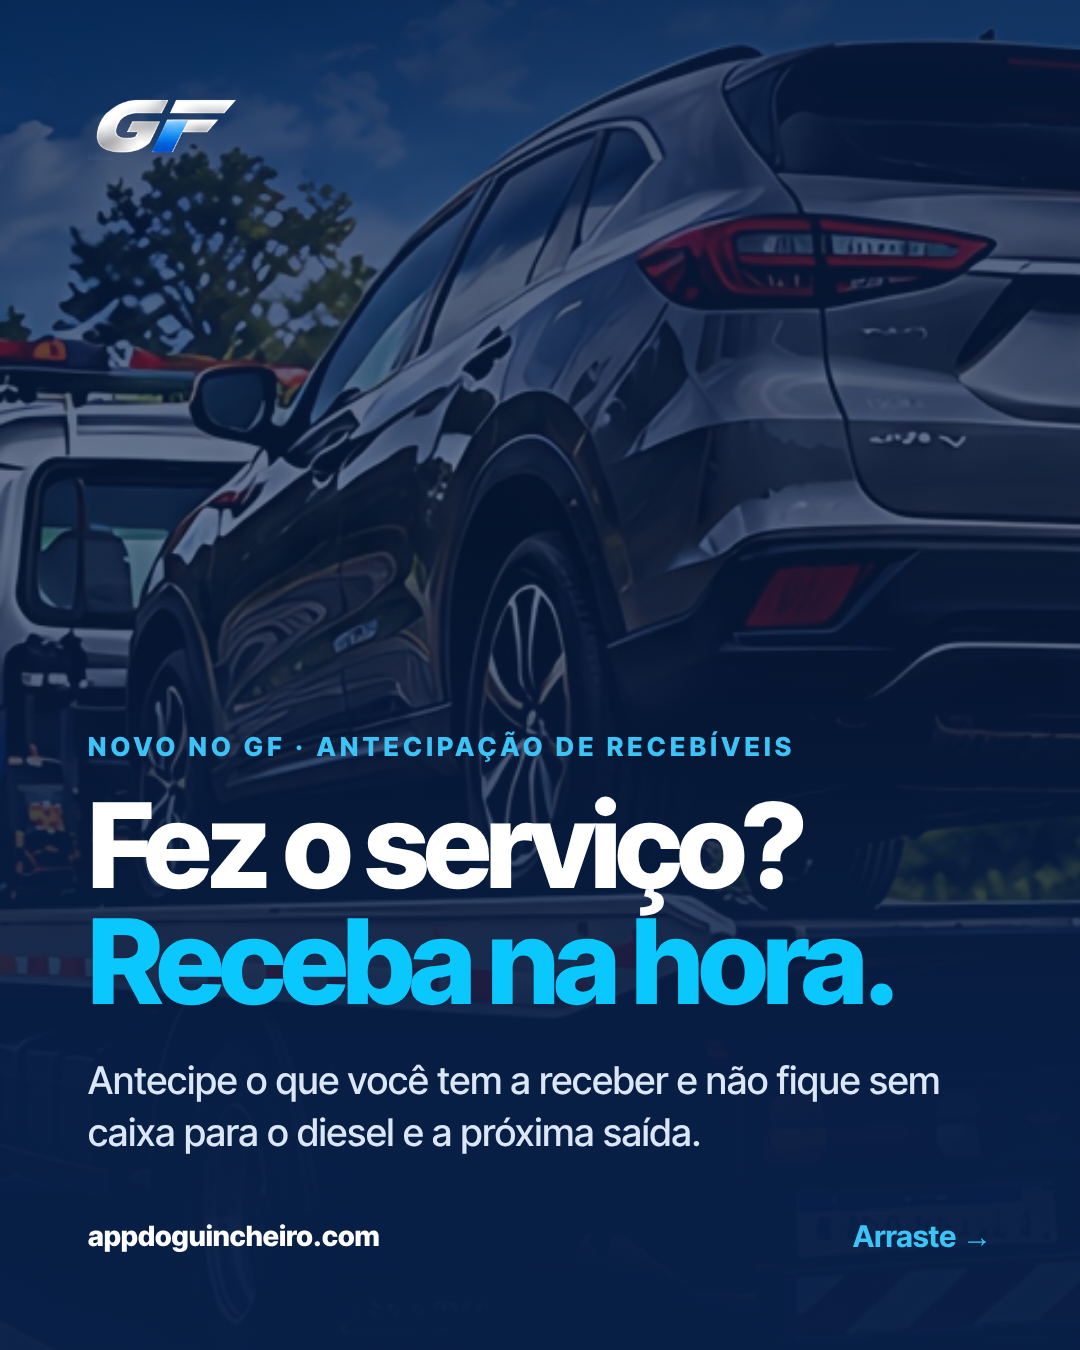
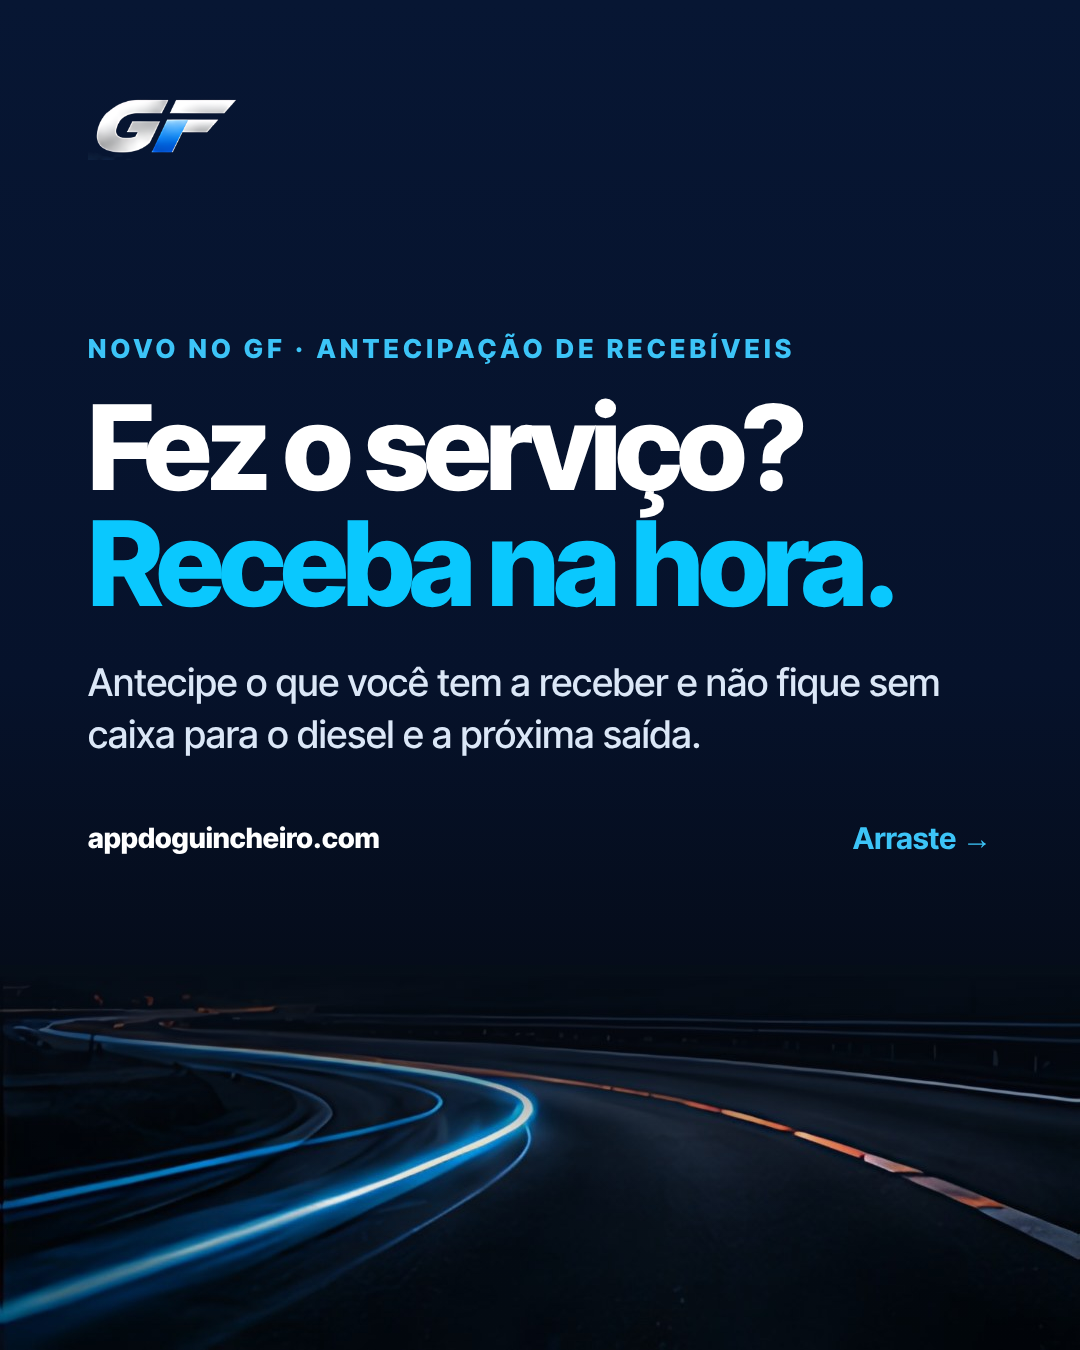
GF: nova imagem do topo (rede GF e guinchos à noite) e capas dos carrosséis com a estrada iluminada
Remove a foto antiga. O exemplo de rota sai do topo e vai para 'Para profissionais'.

Claude-Session: https://claude.ai/code/session_019ynR5H9rs9PHn6Xni4LVYt

diff --git a/guincho-facil/public/index.html b/guincho-facil/public/index.html
@@ -57,10 +57,11 @@ header.top img{height:34px;display:block}
 .cta-s:hover{border-color:var(--gf-accent)}
 @media (min-width:980px){.menu{display:flex}}
 /* hero */
-.hero{position:relative;overflow:hidden;min-height:min(100svh,860px);display:flex;align-items:center;
-  background:var(--gf-surface-deep) url(/assets/hero-guincho.jpg) 70% 60%/cover no-repeat}
+.hero{position:relative;overflow:hidden;min-height:min(100svh,820px);display:flex;align-items:center;
+  background:#071633 url(/assets/hero-rede.jpg) right center/auto 100% no-repeat}
 .hero::before{content:"";position:absolute;inset:0;background:
-  linear-gradient(180deg,rgba(8,31,71,.92) 0%,rgba(8,31,71,.55) 38%,rgba(8,31,71,.75) 70%,#081f47 100%)}
+  linear-gradient(90deg,#071633 0%,#071633 38%,rgba(7,22,51,.55) 55%,rgba(7,22,51,0) 72%),
+  linear-gradient(180deg,rgba(7,22,51,.7) 0%,rgba(7,22,51,0) 22%,rgba(7,22,51,0) 82%,#081f47 100%)}
 .hero .wrap{position:relative;z-index:1;width:100%;padding-top:108px;padding-bottom:56px;display:grid;gap:28px}
 .eyebrow{font-size:12px;letter-spacing:.28em;color:var(--gf-accent);font-weight:700;text-transform:uppercase;display:inline-flex;align-items:center;gap:10px}
 .eyebrow::before{content:"";width:22px;height:2px;background:currentColor}
@@ -85,16 +86,12 @@ header.top img{height:34px;display:block}
 .pedido .desvio{font-size:12px;font-weight:700;color:var(--gf-on-primary);background:var(--gf-primary);border-radius:999px;padding:4px 10px}
 .pedido .acao{font-size:13px;font-weight:700;color:var(--gf-accent)}
 @media (min-width:900px){
-  .hero{background-position:62% 55%}
-  .hero::before{background:linear-gradient(90deg,rgba(8,31,71,.97) 0%,rgba(8,31,71,.88) 38%,rgba(8,31,71,.35) 70%,rgba(8,31,71,.55) 100%),
-    linear-gradient(180deg,rgba(8,31,71,.6) 0%,rgba(8,31,71,0) 30%,rgba(8,31,71,0) 80%,#081f47 100%)}
   .hero .wrap{grid-template-columns:1.1fr .9fr;align-items:center;gap:48px;padding-top:120px;padding-bottom:90px}
-  .vitrine{justify-self:end}
 }
 @media (max-width:899px){
-  .hero{background-size:auto 72%;background-position:58% 100%;min-height:auto}
-  .hero::before{background:linear-gradient(180deg,var(--gf-surface-deep) 0%,var(--gf-surface-deep) 34%,rgba(8,31,71,.78) 52%,rgba(8,31,71,.62) 78%,#081f47 100%)}
-  .hero .wrap{padding-top:96px;padding-bottom:40px;gap:22px}
+  .hero{background-size:100% auto;background-position:center bottom;min-height:auto}
+  .hero::before{background:linear-gradient(180deg,#071633 0%,#071633 52%,rgba(7,22,51,.35) 70%,rgba(7,22,51,0) 82%,#081f47 100%)}
+  .hero .wrap{padding-top:96px;padding-bottom:calc(86vw - 30px);gap:22px}
   .hero h1{font-size:clamp(32px,9vw,40px);margin:10px 0 14px}
   .hero p.lead{font-size:16px;margin-bottom:20px}
   .acts .btn{flex:1 1 auto}
@@ -112,7 +109,7 @@ section h2{font-size:clamp(32px,4.6vw,56px);line-height:1.02;margin:14px 0 16px}
 .custos span{color:var(--gf-muted)}.custos b{font-weight:700;text-align:right}
 /* faixa profissionais */
 .prof{background:linear-gradient(180deg,#081f47,var(--gf-surface));position:relative;overflow:hidden}
-.prof .linha-rota{position:absolute;right:-40px;top:0;height:100%;width:min(520px,60%);opacity:.75;pointer-events:none}
+.duas{display:grid;gap:40px;align-items:center}@media (min-width:900px){.duas{grid-template-columns:1.1fr .9fr}.duas .vitrine{justify-self:end}}
 .barras{list-style:none;padding:0;margin:26px 0 30px;display:grid;gap:14px}
 .barras li{border-left:3px solid var(--gf-brand-blue);padding:2px 0 2px 16px;font-size:clamp(18px,2vw,22px);font-weight:600}
 .barras li span{display:block;font-size:15px;font-weight:400;color:var(--gf-muted);margin-top:2px}
@@ -163,7 +160,7 @@ footer p{margin:6px 0 0;color:var(--gf-faint);font-size:13px}
 .fixo{position:fixed;left:0;right:0;bottom:0;z-index:30;padding:10px 16px calc(10px + env(safe-area-inset-bottom,0px));background:rgba(8,31,71,.96);border-top:1px solid var(--gf-line);display:flex;gap:10px}
 .fixo .btn{flex:1;padding:0 10px;font-size:15px}
 @media (min-width:860px){.grade2{grid-template-columns:1.1fr 1fr;gap:64px;align-items:center}.passos{grid-template-columns:repeat(3,1fr)}.tres{grid-template-columns:repeat(3,1fr)}.fixo{display:none}footer{padding-bottom:48px}}
-@media (max-width:860px){.prof .linha-rota{opacity:.18;width:40%}.claro .rede{opacity:.35}section{padding:72px 0}.wrap{padding:0 20px}header.top img{height:28px}.form{padding:22px 18px}}
+@media (max-width:860px){.claro .rede{opacity:.35}section{padding:72px 0}.wrap{padding:0 20px}header.top img{height:28px}.form{padding:22px 18px}}
 </style>
 </head>
 <body>
@@ -189,25 +186,6 @@ footer p{margin:6px 0 0;color:var(--gf-faint);font-size:13px}
         <li>Grátis nesta fase</li><li>Guincheiros conferidos</li><li>Antecipação em até 3 horas</li>
       </ul>
     </div>
-    <aside class="vitrine" aria-label="Exemplo de como o GF mostra um pedido no caminho de volta">
-      <div class="cab"><span>Seu retorno hoje · 14h</span><span class="exemplo">Exemplo</span></div>
-      <div class="rota-t">Santa Maria › Alegrete</div>
-      <div class="rota-m">Plataforma livre · 1 vaga</div>
-      <svg viewBox="0 0 400 110" role="img" aria-label="Rota de Santa Maria a Alegrete passando por Cacequi">
-        <path d="M20 80 C 120 80, 140 26, 220 34 S 330 78, 380 54" fill="none" stroke="rgba(120,170,235,.25)" stroke-width="14" stroke-linecap="round"/>
-        <path d="M20 80 C 120 80, 140 26, 220 34 S 330 78, 380 54" fill="none" stroke="#0ac8fe" stroke-width="3" stroke-dasharray="12 9"/>
-        <circle cx="20" cy="80" r="8" fill="#ffffff"/><circle cx="380" cy="54" r="8" fill="#ffffff"/>
-        <circle cx="220" cy="34" r="12" fill="#0ac8fe"/><circle cx="220" cy="34" r="4.5" fill="#062048"/>
-        <text class="pin" x="22" y="105" fill="#b4c8e6" text-anchor="start">Santa Maria</text>
-        <text class="pin" x="380" y="84" fill="#b4c8e6" text-anchor="end">Alegrete</text>
-        <text class="pin" x="220" y="12" fill="#3cc4f7" text-anchor="middle">Cacequi</text>
-      </svg>
-      <div class="pedido">
-        <b>Pedido no caminho: Cacequi › Alegrete</b>
-        <span>Carro · não anda · hoje</span>
-        <div class="linha"><span class="desvio">desvio de 12 km</span><span class="acao">Mandar proposta ›</span></div>
-      </div>
-    </aside>
   </div>
 </section>
 
@@ -255,12 +233,7 @@ footer p{margin:6px 0 0;color:var(--gf-faint);font-size:13px}
 </section>
 
 <section class="prof" id="profissionais" aria-labelledby="t3">
-  <svg class="linha-rota" viewBox="0 0 400 600" preserveAspectRatio="xMaxYMid slice" aria-hidden="true">
-    <path d="M330 -10 C 380 90, 250 150, 300 250 S 380 380, 260 450 S 150 560, 200 620" fill="none" stroke="#0ac8fe" stroke-width="2.5" opacity=".7"/>
-    <path d="M330 -10 C 380 90, 250 150, 300 250 S 380 380, 260 450 S 150 560, 200 620" fill="none" stroke="#0ac8fe" stroke-width="10" opacity=".08"/>
-    <g fill="#0ac8fe"><circle cx="300" cy="250" r="7"/><circle cx="260" cy="450" r="7"/></g>
-  </svg>
-  <div class="wrap" style="position:relative">
+  <div class="wrap duas" style="position:relative"><div>
     <span class="eyebrow">Para profissionais</span>
     <h2 id="t3">Seu retorno vazio pode virar <em>frete.</em></h2>
     <p class="sub">O GF conecta quem está na estrada a quem precisa de transporte no mesmo caminho. Divulgue sua rota e veja o que cabe nela.</p>
@@ -271,6 +244,26 @@ footer p{margin:6px 0 0;color:var(--gf-faint);font-size:13px}
     </ul>
     <p class="ex">“Saio de Santa Maria para Alegrete hoje às 14h. Plataforma livre.”</p>
     <div class="acts" style="margin-top:26px"><a class="btn" href="/app">Divulgar minha rota</a></div>
+  </div>
+  <aside class="vitrine" aria-label="Exemplo de como o GF mostra um pedido no caminho de volta">
+      <div class="cab"><span>Seu retorno hoje · 14h</span><span class="exemplo">Exemplo</span></div>
+      <div class="rota-t">Santa Maria › Alegrete</div>
+      <div class="rota-m">Plataforma livre · 1 vaga</div>
+      <svg viewBox="0 0 400 110" role="img" aria-label="Rota de Santa Maria a Alegrete passando por Cacequi">
+        <path d="M20 80 C 120 80, 140 26, 220 34 S 330 78, 380 54" fill="none" stroke="rgba(120,170,235,.25)" stroke-width="14" stroke-linecap="round"/>
+        <path d="M20 80 C 120 80, 140 26, 220 34 S 330 78, 380 54" fill="none" stroke="#0ac8fe" stroke-width="3" stroke-dasharray="12 9"/>
+        <circle cx="20" cy="80" r="8" fill="#ffffff"/><circle cx="380" cy="54" r="8" fill="#ffffff"/>
+        <circle cx="220" cy="34" r="12" fill="#0ac8fe"/><circle cx="220" cy="34" r="4.5" fill="#062048"/>
+        <text class="pin" x="22" y="105" fill="#b4c8e6" text-anchor="start">Santa Maria</text>
+        <text class="pin" x="380" y="84" fill="#b4c8e6" text-anchor="end">Alegrete</text>
+        <text class="pin" x="220" y="12" fill="#3cc4f7" text-anchor="middle">Cacequi</text>
+      </svg>
+      <div class="pedido">
+        <b>Pedido no caminho: Cacequi › Alegrete</b>
+        <span>Carro · não anda · hoje</span>
+        <div class="linha"><span class="desvio">desvio de 12 km</span><span class="acao">Mandar proposta ›</span></div>
+      </div>
+    </aside>
   </div>
 </section>
 

diff --git a/guincho-facil/marketing/carrossel-antecipacao/carrossel.html b/guincho-facil/marketing/carrossel-antecipacao/carrossel.html
@@ -17,8 +17,8 @@ p.l{font-size:38px;line-height:1.35;margin-top:36px;color:#dbe7f7;font-weight:50
 .cla .pe{color:#4f6681}
 .pe b{color:#fff}.cla .pe b{color:#0b2a5b}
 .n{font-weight:600;font-size:26px}
-.foto{position:absolute;inset:0;background:url(../../public/assets/hero-guincho.jpg) center/cover;opacity:.55}
-.foto+.vel{position:absolute;inset:0;background:linear-gradient(180deg,rgba(8,31,71,.55),rgba(8,31,71,.25) 40%,rgba(8,31,71,.95) 82%)}
+.foto{position:absolute;inset:0;background:#050c1a url(../../public/assets/estrada-luz.jpg) center bottom/100% auto no-repeat}
+.foto+.vel{position:absolute;inset:0;background:linear-gradient(180deg,#071633 0%,#06122b 50%,rgba(5,12,26,.2) 72%,rgba(5,12,26,0) 100%)}
 .z{position:relative;display:flex;flex-direction:column;height:100%}
 .lista{margin-top:56px;display:grid;gap:22px}
 .lista div{background:#fff;border:1px solid #d6e1ec;border-radius:26px;padding:30px 34px;font:600 36px/1.25 'Inter Tight';display:flex;gap:22px;align-items:center;box-shadow:0 2px 6px rgba(11,42,91,.06)}
@@ -81,7 +81,7 @@ p.l{font-size:38px;line-height:1.35;margin-top:36px;color:#dbe7f7;font-weight:50
 <body>
 <section class="s esc"><div class="foto"></div><div class="vel"></div><div class="z">
 <img class="logo" src="../../public/assets/gf-mark.png" alt="">
-<div style="margin-top:auto"><div class="eye">Novo no GF · Antecipação de recebíveis</div>
+<div style="margin-top:120px"><div class="eye">Novo no GF · Antecipação de recebíveis</div>
 <h1>Fez o serviço? <em>Receba na hora.</em></h1>
 <p class="l">Antecipe o que você tem a receber e não fique sem caixa para o diesel e a próxima saída.</p></div>
 <div class="pe" style="margin-top:60px"><b>appdoguincheiro.com</b><span class="seta">Arraste →</span></div></div></section>

diff --git a/guincho-facil/marketing/carrossel/carrossel.html b/guincho-facil/marketing/carrossel/carrossel.html
@@ -17,8 +17,8 @@ p.l{font-size:38px;line-height:1.35;margin-top:36px;color:#dbe7f7;font-weight:50
 .cla .pe{color:#4f6681}
 .pe b{color:#fff}.cla .pe b{color:#0b2a5b}
 .n{font-weight:600;font-size:26px}
-.foto{position:absolute;inset:0;background:url(../../public/assets/hero-guincho.jpg) center/cover;opacity:.55}
-.foto+.vel{position:absolute;inset:0;background:linear-gradient(180deg,rgba(8,31,71,.55),rgba(8,31,71,.25) 40%,rgba(8,31,71,.95) 82%)}
+.foto{position:absolute;inset:0;background:#050c1a url(../../public/assets/estrada-luz.jpg) center bottom/100% auto no-repeat}
+.foto+.vel{position:absolute;inset:0;background:linear-gradient(180deg,#071633 0%,#06122b 50%,rgba(5,12,26,.2) 72%,rgba(5,12,26,0) 100%)}
 .z{position:relative;display:flex;flex-direction:column;height:100%}
 .lista{margin-top:56px;display:grid;gap:22px}
 .lista div{background:#fff;border:1px solid #d6e1ec;border-radius:26px;padding:30px 34px;font:600 36px/1.25 'Inter Tight';display:flex;gap:22px;align-items:center;box-shadow:0 2px 6px rgba(11,42,91,.06)}
@@ -65,7 +65,7 @@ p.l{font-size:38px;line-height:1.35;margin-top:36px;color:#dbe7f7;font-weight:50
 
 <section class="s esc"><div class="foto"></div><div class="vel"></div><div class="z">
 <img class="logo" src="../../public/assets/gf-mark.png" alt="">
-<div style="margin-top:auto"><div class="eye">Conexões que movem</div>
+<div style="margin-top:120px"><div class="eye">Conexões que movem</div>
 <h1>O seu caminhão nunca mais <em>volta vazio.</em></h1>
 <p class="l">Quem precisa transportar um veículo encontra o guincheiro que já está passando por ali.</p></div>
 <div class="pe" style="margin-top:60px"><b>appdoguincheiro.com</b><span class="seta">Arraste →</span></div></div></section>

diff --git a/guincho-facil/public/sw.js b/guincho-facil/public/sw.js
@@ -1,6 +1,6 @@
 // Service worker do GF: abre offline a casca do app e do site.
 // Dados (Supabase) nunca são guardados em cache.
-const CACHE = 'gf-v6';
+const CACHE = 'gf-v7';
 const SHELL = ['/', '/app', '/privacidade', '/style.css', '/tokens.css', '/app.js', '/lib.js', '/cidades.js', '/config.js',
   '/manifest.webmanifest', '/assets/gf-mark.png', '/icons/icon-192.png', '/icons/icon-512.png', '/offline.html'];
 self.addEventListener('install', e => {
